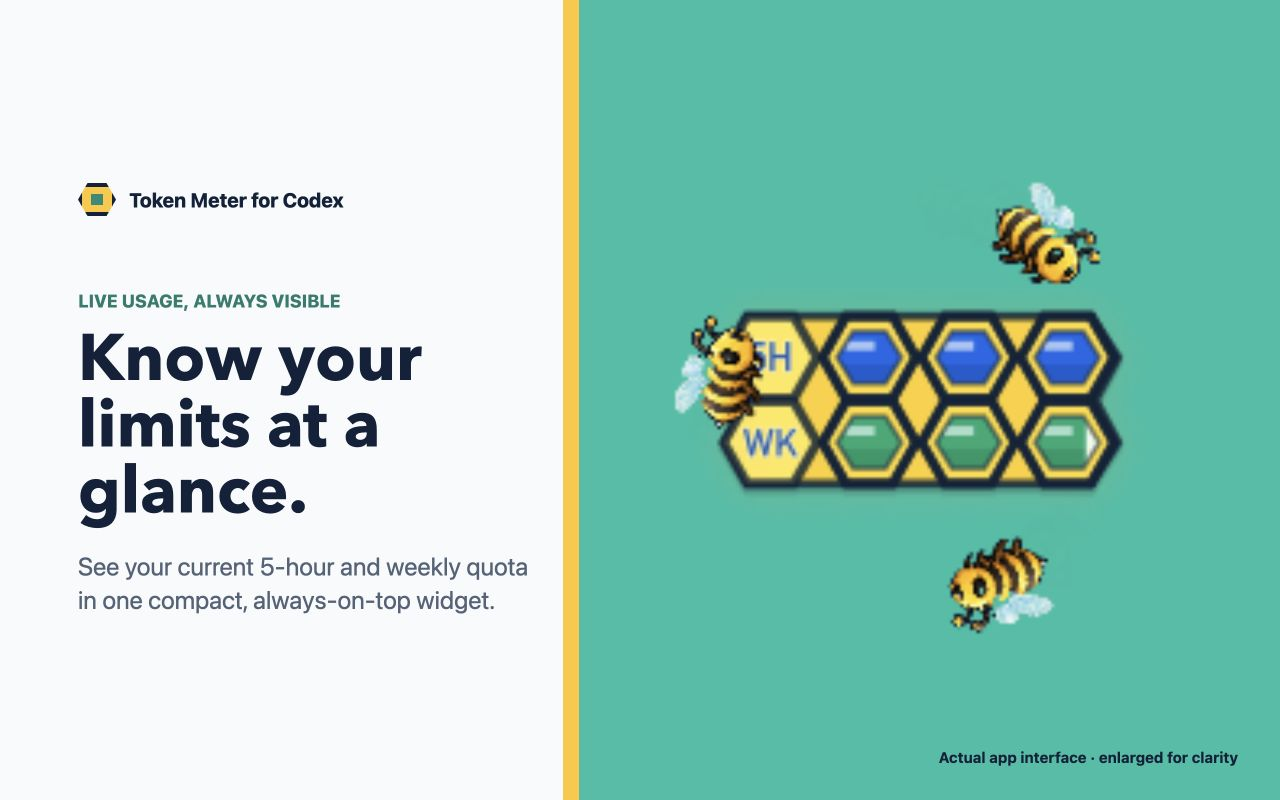
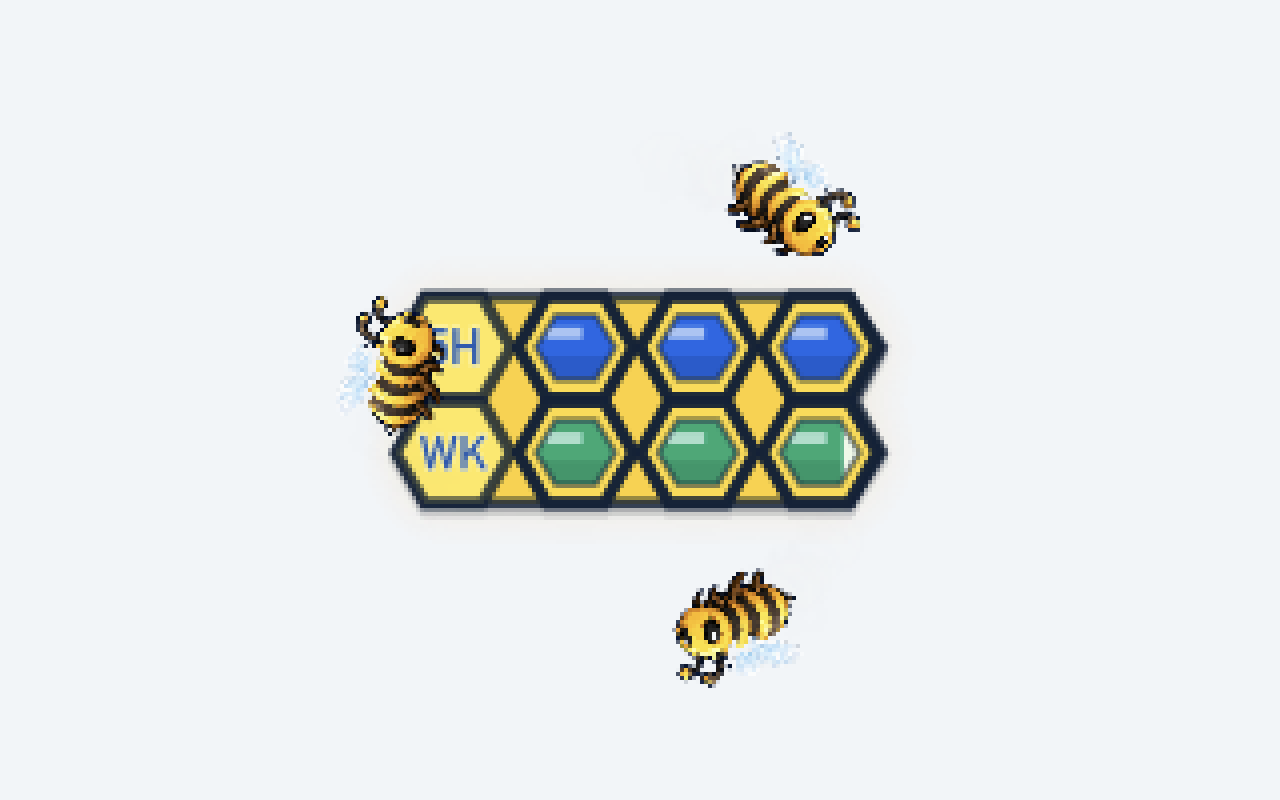
fix: resolve App Review sample loading

diff --git a/src/App.tsx b/src/App.tsx
@@ -142,6 +142,15 @@ export function App() {
     }
   }, []);
 
+  const connectCodexFolder = useCallback(async () => {
+    try {
+      await invoke<boolean>("choose_codex_folder");
+      await reloadSnapshot();
+    } catch (err) {
+      setError(err instanceof Error ? err.message : String(err));
+    }
+  }, [reloadSnapshot]);
+
   useEffect(() => {
     if (!accessGranted) {
       return;
@@ -265,11 +274,7 @@ export function App() {
       });
 
     void listen("context-menu-connect", () => {
-      void invoke<boolean>("choose_codex_folder")
-        .then(() => reloadSnapshot())
-        .catch((err) => {
-          setError(err instanceof Error ? err.message : String(err));
-        });
+      void connectCodexFolder();
     })
       .then((unlisten) => {
         if (alive) {
@@ -288,7 +293,7 @@ export function App() {
       unlistenReload?.();
       unlistenConnect?.();
     };
-  }, [accessGranted, reloadSnapshot]);
+  }, [accessGranted, connectCodexFolder, reloadSnapshot]);
 
   useEffect(() => {
     if (!accessGranted) {
@@ -364,7 +369,7 @@ export function App() {
           {snapshot ? (
             <HiveMeter snapshot={snapshot} />
           ) : (
-            <LoadingMeter labels={labels} />
+            <LoadingMeter labels={labels} error={error} onConnect={connectCodexFolder} />
           )}
         </div>
       </section>
@@ -485,7 +490,30 @@ function SubscriptionPaywall({
   );
 }
 
-function LoadingMeter({ labels }: { labels: Labels }) {
+function LoadingMeter({
+  labels,
+  error,
+  onConnect,
+}: {
+  labels: Labels;
+  error: string | null;
+  onConnect: () => void;
+}) {
+  if (error) {
+    return (
+      <div className="loading-meter loading-meter-error" role="alert" title={error}>
+        <strong aria-hidden="true">!</strong>
+        <button
+          type="button"
+          onMouseDown={(event) => event.stopPropagation()}
+          onClick={onConnect}
+        >
+          Reconnect
+        </button>
+      </div>
+    );
+  }
+
   return (
     <div className="loading-meter">
       <span className="loading-ring" aria-hidden="true" />

diff --git a/src/styles.css b/src/styles.css
@@ -575,6 +575,35 @@ button {
   animation: spin 1s linear infinite;
 }
 
+.loading-meter-error {
+  gap: 4px;
+  text-align: center;
+}
+
+.loading-meter-error strong {
+  width: 28px;
+  height: 28px;
+  display: grid;
+  place-items: center;
+  border: 3px solid var(--danger);
+  border-radius: 50%;
+  color: var(--danger);
+  font-size: 18px;
+  line-height: 1;
+}
+
+.loading-meter-error button {
+  max-width: 72px;
+  padding: 1px 4px;
+  border: 0;
+  color: var(--line);
+  background: transparent;
+  font-size: 10px;
+  font-weight: 700;
+  line-height: 1.1;
+  cursor: pointer;
+}
+
 .detail-popover {
   position: fixed;
   left: 12px;

diff --git a/src-tauri/src/macos_store.rs b/src-tauri/src/macos_store.rs
@@ -5,11 +5,19 @@ use objc2_app_kit::{NSModalResponseOK, NSOpenPanel};
 use objc2_foundation::{
     NSData, NSString, NSURLBookmarkCreationOptions, NSURLBookmarkResolutionOptions, NSURL,
 };
+use serde::Deserialize;
 use std::fs;
 use std::path::{Path, PathBuf};
 use std::sync::{Mutex, OnceLock};
 
 static ACTIVE_CODEX_SCOPE: OnceLock<Mutex<Option<ActiveSecurityScope>>> = OnceLock::new();
+static ACTIVE_REVIEW_SAMPLE_HOME: OnceLock<Mutex<Option<PathBuf>>> = OnceLock::new();
+
+#[derive(Deserialize)]
+struct ReviewSampleMarker {
+    #[serde(default)]
+    token_meter_review_sample: bool,
+}
 
 struct ActiveSecurityScope {
     url: Retained<NSURL>,
@@ -25,10 +33,21 @@ impl Drop for ActiveSecurityScope {
 }
 
 pub fn active_codex_home() -> Option<PathBuf> {
+    if let Some(path) = active_review_sample_home() {
+        return Some(path);
+    }
+
     active_scope()
         .lock()
         .ok()
         .and_then(|scope| scope.as_ref().map(|scope| scope.path.clone()))
+}
+
+pub fn active_review_sample_home() -> Option<PathBuf> {
+    review_sample_home()
+        .lock()
+        .ok()
+        .and_then(|path| path.clone())
 }
 
 pub fn activate_saved_codex_home(bookmark_path: &Path) -> Result<PathBuf, String> {
@@ -97,6 +116,12 @@ pub fn choose_codex_home(
         .ok_or_else(|| "No Codex folder was selected.".to_string())?;
     let path = path_from_url(&url)?;
     validate_codex_home(&path)?;
+    if is_review_sample_home(&path)? {
+        activate_review_sample(path.clone())?;
+        return Ok(path);
+    }
+
+    clear_review_sample()?;
     save_bookmark(&url, bookmark_path)?;
     activate_scope(url, path.clone())?;
     Ok(path)
@@ -106,11 +131,37 @@ fn active_scope() -> &'static Mutex<Option<ActiveSecurityScope>> {
     ACTIVE_CODEX_SCOPE.get_or_init(|| Mutex::new(None))
 }
 
+fn review_sample_home() -> &'static Mutex<Option<PathBuf>> {
+    ACTIVE_REVIEW_SAMPLE_HOME.get_or_init(|| Mutex::new(None))
+}
+
+fn activate_review_sample(path: PathBuf) -> Result<(), String> {
+    let mut review_home = review_sample_home()
+        .lock()
+        .map_err(|_| "App Review sample access state is unavailable.".to_string())?;
+    *review_home = Some(path);
+
+    let mut active = active_scope()
+        .lock()
+        .map_err(|_| "Codex folder access state is unavailable.".to_string())?;
+    *active = None;
+    Ok(())
+}
+
+fn clear_review_sample() -> Result<(), String> {
+    let mut review_home = review_sample_home()
+        .lock()
+        .map_err(|_| "App Review sample access state is unavailable.".to_string())?;
+    *review_home = None;
+    Ok(())
+}
+
 fn activate_scope(url: Retained<NSURL>, path: PathBuf) -> Result<(), String> {
     if !unsafe { url.startAccessingSecurityScopedResource() } {
         return Err("macOS did not grant access to the selected Codex folder.".to_string());
     }
 
+    clear_review_sample()?;
     let mut active = active_scope()
         .lock()
         .map_err(|_| "Codex folder access state is unavailable.".to_string())?;
@@ -154,6 +205,13 @@ fn validate_codex_home(path: &Path) -> Result<(), String> {
     Ok(())
 }
 
+fn is_review_sample_home(path: &Path) -> Result<bool, String> {
+    let auth = fs::File::open(path.join("auth.json")).map_err(|error| error.to_string())?;
+    let marker: ReviewSampleMarker =
+        serde_json::from_reader(auth).map_err(|error| error.to_string())?;
+    Ok(marker.token_meter_review_sample)
+}
+
 fn path_from_url(url: &NSURL) -> Result<PathBuf, String> {
     url.path()
         .map(|path| PathBuf::from(path.to_string()))
@@ -162,4 +220,34 @@ fn path_from_url(url: &NSURL) -> Result<PathBuf, String> {
 
 fn ns_string(path: &Path) -> Retained<NSString> {
     NSString::from_str(&path.to_string_lossy())
+}
+
+#[cfg(test)]
+mod tests {
+    use super::*;
+
+    #[test]
+    fn credential_free_review_sample_is_detected_before_security_scope_activation() {
+        let sample_home = std::env::temp_dir().join(format!(
+            "token-meter-macos-review-sample-{}",
+            std::process::id()
+        ));
+        fs::create_dir_all(&sample_home).expect("create review sample folder");
+        fs::write(
+            sample_home.join("auth.json"),
+            r#"{"token_meter_review_sample":true,"tokens":null}"#,
+        )
+        .expect("write review sample auth");
+
+        assert!(is_review_sample_home(&sample_home).expect("detect review sample"));
+        activate_review_sample(sample_home.clone()).expect("activate review sample");
+        assert_eq!(
+            active_review_sample_home().as_deref(),
+            Some(sample_home.as_path())
+        );
+        assert_eq!(active_codex_home().as_deref(), Some(sample_home.as_path()));
+        clear_review_sample().expect("clear review sample");
+
+        fs::remove_dir_all(sample_home).expect("remove review sample folder");
+    }
 }

diff --git a/src-tauri/src/lib.rs b/src-tauri/src/lib.rs
@@ -696,6 +696,11 @@ fn provider_mode_from_env() -> ProviderMode {
 fn collect_codex_usage_snapshot() -> Result<UsageSnapshot, Box<dyn std::error::Error>> {
     let now = Utc::now().timestamp();
     #[cfg(all(target_os = "macos", feature = "app-store"))]
+    if let Some(codex_home) = macos_store::active_review_sample_home() {
+        return Ok(app_review_sample_snapshot(codex_home, now));
+    }
+
+    #[cfg(all(target_os = "macos", feature = "app-store"))]
     let codex_home = macos_store::active_codex_home()
         .ok_or("Select the .codex folder to connect Token Meter to Codex.")?;
     #[cfg(not(all(target_os = "macos", feature = "app-store")))]